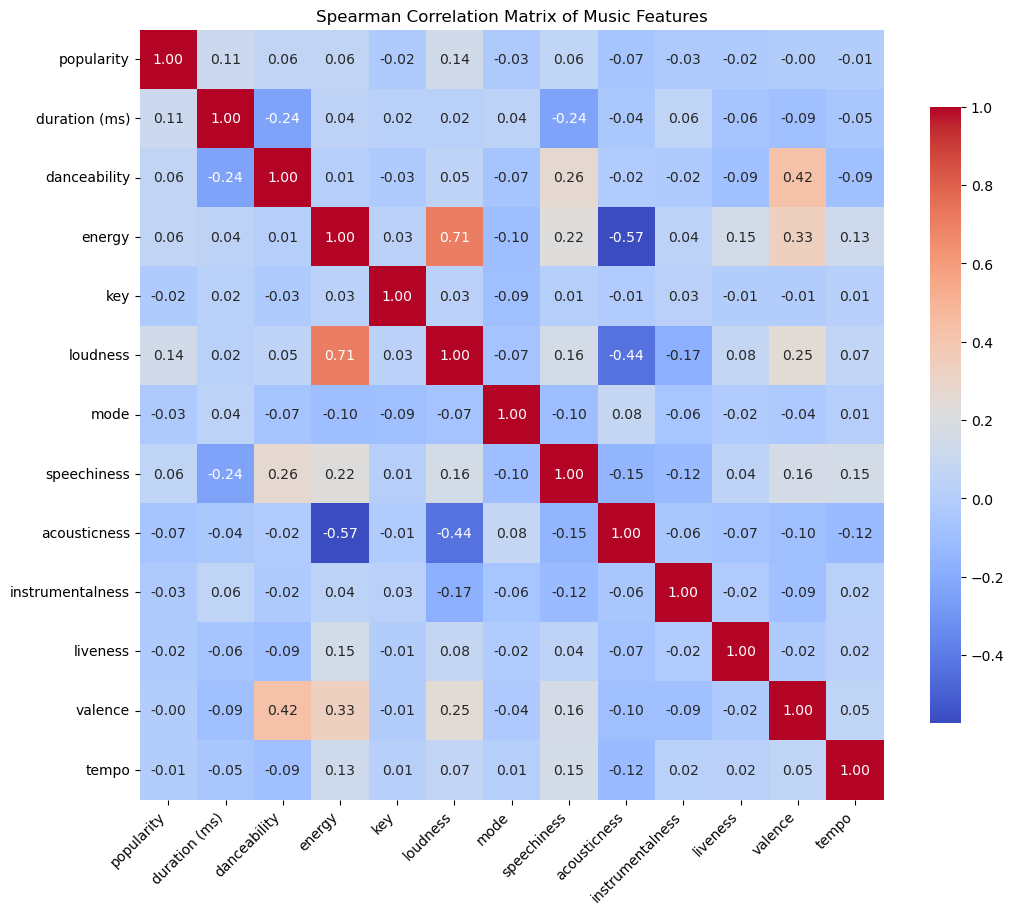
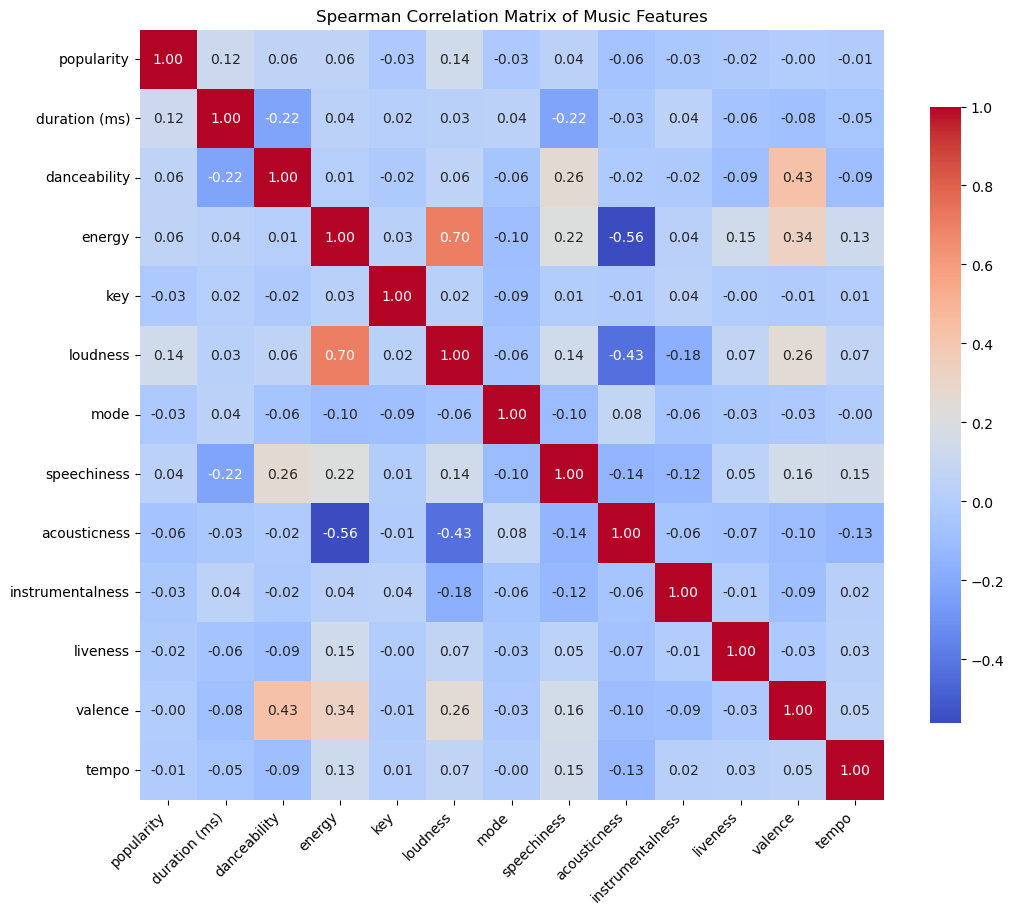
Use cleaned datasets to do correlation

diff --git a/code/correlation/pearson_correlation.py b/code/correlation/pearson_correlation.py
@@ -7,15 +7,12 @@ import seaborn as sns
 import matplotlib.pyplot as plt
 
 
-plt.ion()
-
-
 df = pd.read_csv("artifacts/spotify_data.csv")
-df_unique = df.drop_duplicates(subset=["id"])
+#df_unique = df.drop_duplicates(subset=["id"])
 
 # df = pd.read_csv(df)
-df_unique["release date"] = pd.to_datetime(df_unique["release date"])
-df_unique["year"] = df_unique["release date"].dt.year
+df["release date"] = pd.to_datetime(df["release date"])
+df["year"] = df["release date"].dt.year
 variables = [
     "popularity",
     "duration (ms)",
@@ -34,12 +31,16 @@ variables = [
 ]
 
 # calculate correlation_matrix
-correlation_matrix = df_unique[variables].corr(method="pearson")
+correlation_matrix = df[variables].corr(method="pearson")
 
 plt.figure(figsize=(12, 10))
 
 # use seaborn yo draw heat map
-sns.heatmap(correlation_matrix, annot=True, cmap="coolwarm", fmt=".2f")
+
+
+plt.figure(figsize=(12, 10))
+
+sns.heatmap(correlation_matrix, annot=True, cmap="coolwarm",cbar=True, fmt=".2f")
 sns.heatmap(
     correlation_matrix,
     annot=True,
@@ -53,16 +54,15 @@ sns.heatmap(
 
 plt.xticks(rotation=45, ha="right", fontsize=10)
 plt.yticks(fontsize=10)
-plt.title("Correlation Matrix of Music Features")
+plt.title("Pearson Correlation Matrix of Music Features")
 plt.savefig(
-    "images/correlation.png",
+    "images/pearson correlation.png",
     bbox_inches="tight",
 )
 
-plt.show()
 print("missing value:")
-print(df_unique[variables].isnull().sum())
-df_cleaned = df_unique[variables].dropna()
+print(df[variables].isnull().sum())
+df_cleaned = df[variables].dropna()
 print("missing value after cleaning:")
 print(df_cleaned.isnull().sum())
 

diff --git a/code/correlation/distribution.py b/code/correlation/distribution.py
@@ -4,6 +4,7 @@ import matplotlib.pyplot as plt
 
 # read CSV
 df = pd.read_csv("artifacts/spotify_data.csv")
+print(len(df))
 df["release date"] = pd.to_datetime(df["release date"])
 df["year"] = df["release date"].dt.year
 
@@ -40,21 +41,6 @@ plt.tight_layout()
 #save image
 plt.savefig(
     "images/variable_distributions.png",
-    bbox_inches="tight",
-)
-
-plt.show()
-plt.figure(figsize=(8, 6))
-
-sns.histplot(df["instrumentalness"], kde=True, bins=30)
-plt.title("Distribution of instrumentalness", fontsize=12)
-plt.xlabel("instrumentalness")
-plt.ylabel("Frequency")
-plt.xlim(0, 0.2)
-
-# save instrumentalness image
-plt.savefig(
-    "images/instrumentalness_distribution.png",
     bbox_inches="tight",
 )
 

diff --git a/code/correlation/spearman_correlation.py b/code/correlation/spearman_correlation.py
@@ -7,12 +7,9 @@ import numpy as np
 
 # read CSV
 df = pd.read_csv("artifacts/spotify_data.csv")
-df = df.drop_duplicates(subset=["id"])
-num_rows, num_cols = df.shape
-print(f"number of rows after deduplication: {num_rows}")
 # If we want to use the 'year' variable, we can use the following lines
-# df['release date'] = pd.to_datetime(df['release date'])
-# df['year'] = df['release date'].dt.year
+#df['release date'] = pd.to_datetime(df['release date'])
+#df['year'] = df['release date'].dt.year
 
 variables = [
     "popularity",

diff --git a/README.md b/README.md
@@ -1,22 +1,75 @@
 # eco395m_midterm_project
 
 
-A.Data Collection(ly)
+## A.Data Collection(ly)
 
-B.Data Overview(zty)
-documentation
-distribution
+## B.Data Overview(zty)
+### documentation
+1. id: The Spotify ID for the album
+2. name:The name of the album
+3. release date:The date the album was first released
+4. artists: The artists of the album
+5. duration (ms):The track length in milliseconds
+6. popularity:The popularity of the track. The value will be between 0 and 100.
+7. preview url:A link to a 30 second preview (MP3 format) of the track. Can be null
+8. danceability:Danceability describes how suitable a track is for dancing based on a combination of musical elements including tempo, rhythm stability, beat strength, and overall regularity. A value of 0.0 is least danceable and 1.0 is most danceable.
+9. energy:Energy is a measure from 0.0 to 1.0 and represents a perceptual measure of intensity and activity.
+10. key:The key the track is in. Integers map to pitches using standard Pitch Class notation. E.g. 0 = C, 1 = C♯/D♭, 2 = D, and so on. If no key was detected, the value is -1.
+11. loudness:The overall loudness of a track in decibels (dB).
+12. mode:Mode indicates the modality (major or minor) of a track, the type of scale from which its melodic content is derived. Major is represented by 1 and minor is 0.
+13. speechiness:Speechiness detects the presence of spoken words in a track.
+14. acousticness:A confidence measure from 0.0 to 1.0 of whether the track is acoustic. 
+15. instrumentalness:Predicts whether a track contains no vocals.
+16. liveness:Detects the presence of an audience in the recording.
+17. valence:A measure from 0.0 to 1.0 describing the musical positiveness conveyed by a track.
+18. tempo:The overall estimated tempo of a track in beats per minute (BPM). In musical terminology, tempo is the speed or pace of a given piece and derives directly from the average beat duration.
 
-C.Data Cleaning(xlb) and correlation(zty)
+
+### distribution
+
+![distribution](https://github.com/ClaireLu0608/eco395m_midterm_project/blob/main/images/variable_distributions.png)
+1. The distribution of duration(ms), danceability, energy, loudness, liveness,valence and tempo are more closely follows a normal distribution
+2. **Duration:**
+The distribution of duration shows a somewhat unimodal pattern with most songs having durations between 200,000 and 400,000 milliseconds (or roughly 3 to 6 minutes). The peak occurs around 300,000 ms (5 minutes).
+3. **Danceability:**
+Danceability appears to have a normal distribution, centered around 0.6. This suggests that most songs have moderate danceability, with fewer songs on the extreme ends (low or high).
+4. **Energy:**
+The energy feature follows a right-skewed distribution, with a large number of songs having energy levels between 0.6 and 0.8. This suggests that many songs have relatively high energy.
+5. **Key:**
+The distribution of key shows a somewhat uniform pattern, meaning songs are evenly spread across different keys, though certain keys appear more frequently than others.
+6. **Loudness:**
+Loudness has a left-skewed distribution, with most songs clustered between -10 dB and 0 dB, indicating relatively high loudness for the majority of the tracks.
+7. **Mode:**
+The number of songs have mode 1 is more than songs which have mode 0.
+8. **Speechiness:**
+Speechiness is heavily skewed to the left, meaning most songs have very low speech content. Only a few songs show higher speechiness values.
+9. **Acousticness:**
+Many songs having very low acoustic characteristics. This indicates that most songs are electronically produced.
+10. **Instrumentalness:**
+Most songs include vocals and are not purely instrumental.
+11. **Liveness:**
+Most songs have a low live performance aspect, though a small number of songs feature higher liveness values, possibly indicating live recordings.
+12. **Valence:**
+Valence is fairly evenly distributed, with songs spread across the full range of valence from 0 to 1, though there is a slight peak around 0.5, indicating that many songs have a neutral emotional tone.
+13. **Tempo:**
+The tempo distribution is multimodal, with several peaks indicating that songs tend to cluster around certain common tempo ranges (such as 60-75 bpm, 120-140 bpm).
+14. **Year:**
+The distribution of the release year shows a steep rise from the 1960s onwards, with a noticeable peak around 2020. This suggests that the dataset contains a larger number of recent tracks.
+
+ 
+## C.Data Cleaning(xlb) and Correlation(zty)
+
+
+### Correlation
 
 D.Model(xlb) and result
 
-E.Case Study(czz)
+## E.Case Study(czz)
 
-F.Reproducibility(ly)
+## F.Reproducibility(ly)
 
-G.Limitations (all)
+## G.Limitations (all)
 
-H.Further Improvements(all)
+## H.Further Improvements(all)
 
 
